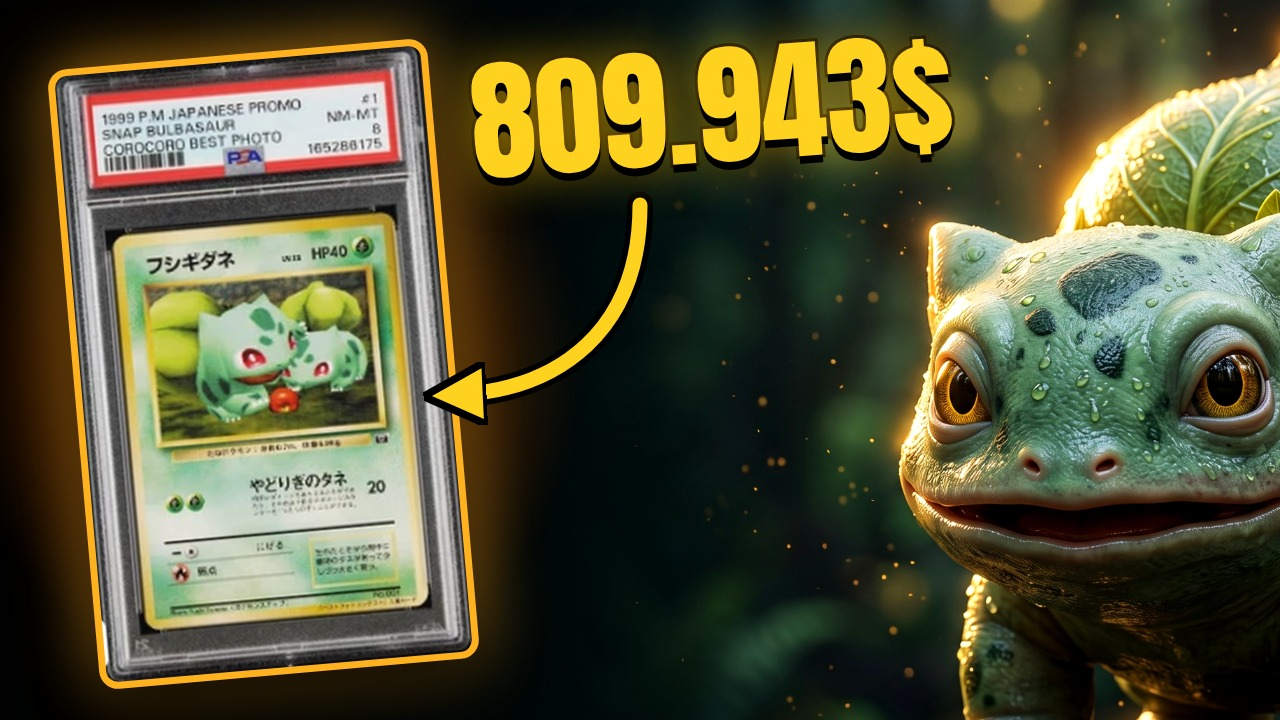
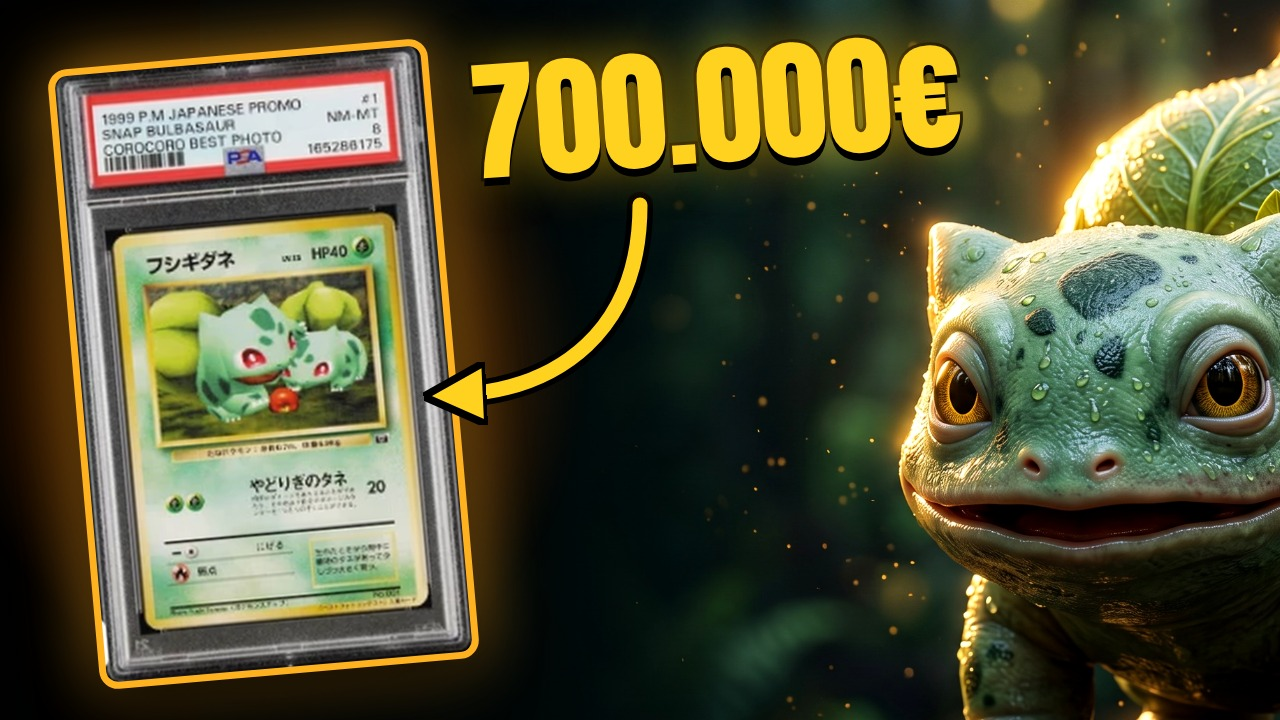
M4 en castellano con euros (700.000€); miniaturas y títulos ES siempre en euros
Claude-Session: https://claude.ai/code/session_01Gd9vaHQpSvzBXp9aTGNw1B

Changed region(s): [[0.5312, 0.0611, 0.75, 0.2444], [0.3438, 0.0611, 0.4375, 0.275], [0.4688, 0.0917, 0.5, 0.2139]]

diff --git a/videos/001-bulbasaur/titulos-miniaturas.md b/videos/001-bulbasaur/titulos-miniaturas.md
@@ -1,6 +1,6 @@
 # Títulos y miniaturas · #001 Bulbasaur
 
-> **Estado: pendiente de elección** · 2026-11-27
+> **Estado: miniatura elegida: M4** · título pendiente · 2026-11-27
 
 ## Títulos (gancho variable)
 
@@ -18,7 +18,7 @@
 | M2 | Realista | ¿PLANTA O ANIMAL? | PLANT OR ANIMAL? | `miniaturas/r2_es.jpg`, `r2_en.jpg` | `9c835680-3884-478d-a3b2-02b5b5ee8df8` |
 | M3 | Mixta (crayón + realista) | LA FOTO DE 800.000$ | A $800K PHOTO | `miniaturas/m3_es.jpg`, `m3_en.jpg` | `0b3204f8-f573-4594-81b6-217a4027b983` |
 
-| ⭐⭐ **M4** | Realista: **carta real grande a la izquierda** con brillo, **Bulbasaur realista a la derecha**, precio con **flecha** que señala la carta (inspirada en la referencia de Vicente) | 809.943$ | $809,943 | `miniaturas/m4_es.jpg`, `m4_en.jpg` | Fondo: `22ca8a92…` + carta real · `herramientas/miniatura-carta.js` |
+| ⭐⭐ **M4** | Realista: **carta real grande a la izquierda** con brillo, **Bulbasaur realista a la derecha**, precio con **flecha** que señala la carta (inspirada en la referencia de Vicente) | 700.000€ | $809,943 | `miniaturas/m4_es.jpg`, `m4_en.jpg` | Fondo: `22ca8a92…` + carta real · `herramientas/miniatura-carta.js` |
 | M3-carta | Realista + **foto real de la carta** (pedida por Vicente) | POR ESTA CARTA · 809.943$ | FOR THIS CARD · $809,943 | `miniaturas/m3card_es.jpg`, `m3card_en.jpg` | Fondo: `22ca8a92…` + carta real |
 
 **Foto de la carta:** recortada de la captura de 130point de Vicente (foto de la venta en Goldin, PSA 8, cert. 165286175), guardada en `cartas/snap-bulbasaur-psa8.png`. Tiene poca resolución (200×330 px, ampliada ×2). ⚠ Si se consigue una foto en alta resolución de Goldin, se vuelve a renderizar con `herramientas/miniatura-carta.js`.

diff --git a/canal/BIBLIA.md b/canal/BIBLIA.md
@@ -80,6 +80,7 @@ Si es lo que más llama la atención de ese Pokémon, se abre el vídeo con uno 
   - Los precios se indican con su fecha de consulta: son datos que cambian.
   - **Canal ES, precios en dólares:** cuando la fuente da el precio en USD (ventas récord, PriceCharting, TCGplayer), se **convierte a euros** con el tipo de cambio del día del guion. Se redondea y se presenta como aproximado ("809.943 $, unos 700.000 €"). En las ventas récord se puede dar la cifra original en dólares y la conversión.
   - **Formato de cifras en ES (rótulos, miniaturas, títulos):** el símbolo va **pegado** al número: "809.943$", "700.000€". En EN, el formato americano: "$809,943".
+  - **Miniaturas y títulos ES: siempre en euros** ("700.000€"). Los dólares solo aparecen en ES dentro de la narración y los rótulos de ventas récord, junto a su conversión.
   - **Fuente de ventas reales:** 130point.com (reúne eBay, Goldin, Fanatics, Heritage…).
   - **Doblaje:** en el canal ES no se citan títulos de episodios del anime si no se pueden confirmar en el doblaje latino.
 - **Flujo de aprobación:**

diff --git a/.claude/skills/titulos-miniaturas/SKILL.md b/.claude/skills/titulos-miniaturas/SKILL.md
@@ -22,7 +22,7 @@ Requisito: `guion.md` aprobado. Lee BIBLIA §12 y `canal/ESTILO_VISUAL.md`.
 ### Composición preferida (decidida en #001)
 - Cuando la carta más cara es el gancho: **foto real de la carta grande a la izquierda** (girada, con borde y brillo dorado), **Pokémon realista grande a la derecha** y **el precio con una flecha que señala la carta**. Es `herramientas/miniatura-carta.js`.
 - **No hace falta poner el nombre del Pokémon** en la miniatura: va en el título.
-- Cifras en ES con el símbolo pegado ("809.943$"); en EN, "$809,943".
+- **ES siempre en euros** y con el símbolo pegado ("700.000€"); EN en dólares, "$809,943".
 
 ### Proceso
 1. **Imágenes base sin texto**, con Nano Banana 2 (16:9, 2k, unos 1,5 créditos cada una).
